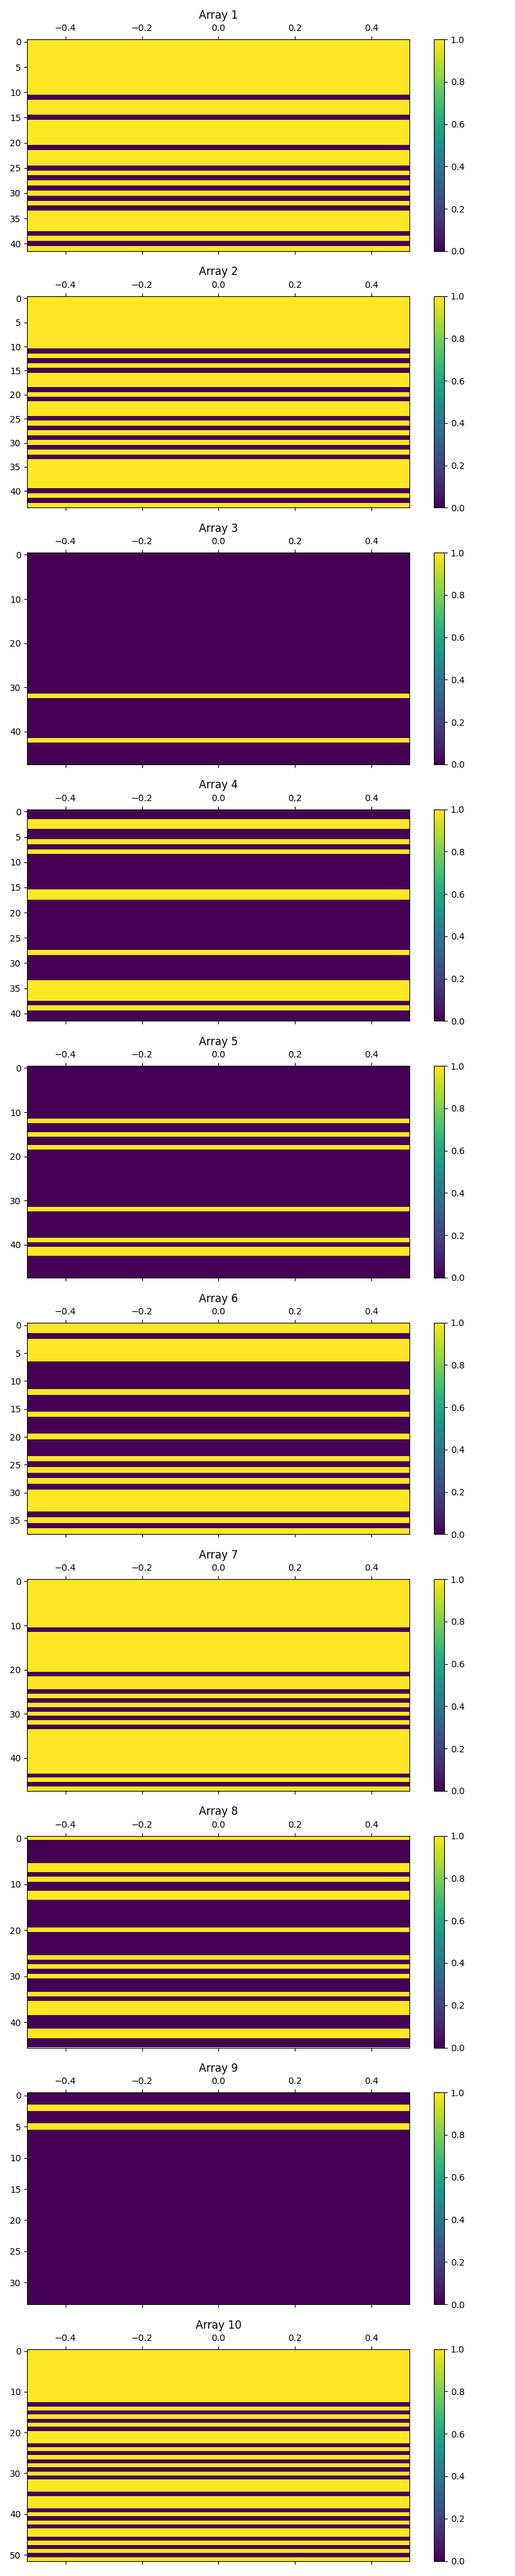
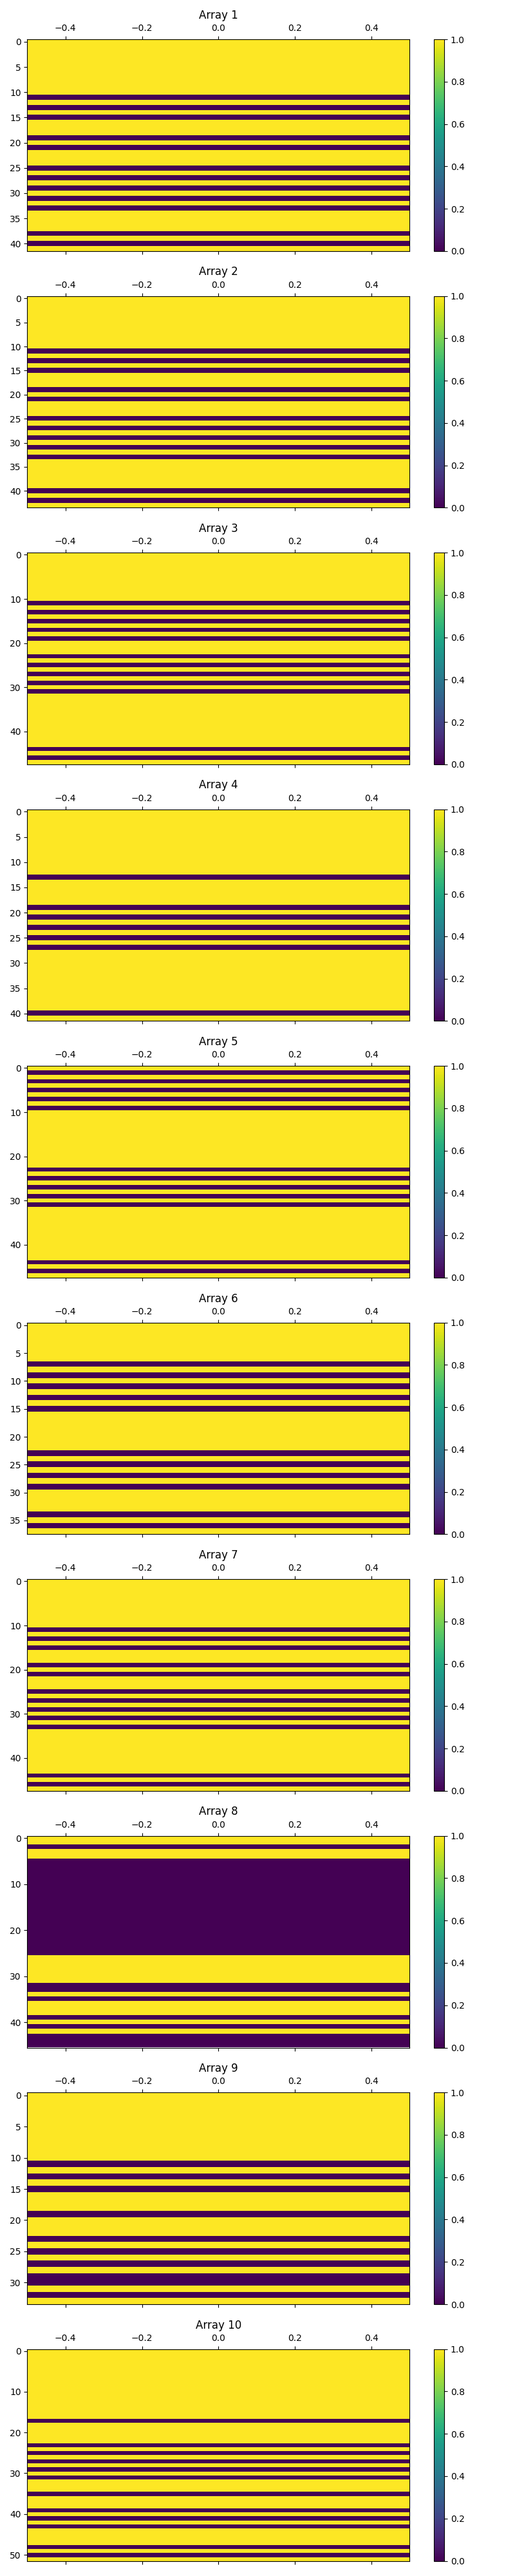
fix spread

diff --git a/graph_classification.py b/graph_classification.py
@@ -132,79 +132,79 @@ def save_graphml(dataset, explanation, type, is_gt=False):
 
 def graph_classification():
     ########### GRAPH ############################
-    print("Running graph setup")
-    graph_metrics = {}
-    for seed in tqdm(range(args.start_seed, args.end_seed), desc="Graph Setup Seed: "):
-        args.current_seed = seed
+    # print("Running graph setup")
+    # graph_metrics = {}
+    # for seed in tqdm(range(args.start_seed, args.end_seed), desc="Graph Setup Seed: "):
+    #     args.current_seed = seed
 
-        dataset, train_loader, test_loader = load_graph_data(seed=seed)
+    #     dataset, train_loader, test_loader = load_graph_data(seed=seed)
 
-        graph_model = setup_model(
-            train_loader=train_loader, test_loader=test_loader, type="graphs"
-        )
-        graph_pred_explanations, ground_truth_explanations, metrics = explain(
-            model=graph_model,
-            dataset=dataset,
-        )
+    #     graph_model = setup_model(
+    #         train_loader=train_loader, test_loader=test_loader, type="graphs"
+    #     )
+    #     graph_pred_explanations, ground_truth_explanations, metrics = explain(
+    #         model=graph_model,
+    #         dataset=dataset,
+    #     )
 
-        if args.visualise:
-            visualise_explanation(
-                graph_pred_explanations[1], ground_truth_explanations[1]
-            )
+    #     if args.visualise:
+    #         visualise_explanation(
+    #             graph_pred_explanations[1], ground_truth_explanations[1]
+    #         )
 
-        graph_metrics[seed] = metrics
+    #     graph_metrics[seed] = metrics
 
-        if args.save_explanation_graphml:
-            save_graphml(dataset, graph_pred_explanations, "graph")
+    #     if args.save_explanation_graphml:
+    #         save_graphml(dataset, graph_pred_explanations, "graph")
 
-        if args.test_graph_train_complex_dataset:
-            print(
-                "Testing explainer with model trained on graph, and providing complex dataset."
-            )
-            complex_dataset, _, _ = load_complex_data(seed=seed)
-            explain(
-                model=graph_model,
-                dataset=dataset,
-            )
+    #     if args.test_graph_train_complex_dataset:
+    #         print(
+    #             "Testing explainer with model trained on graph, and providing complex dataset."
+    #         )
+    #         complex_dataset, _, _ = load_complex_data(seed=seed)
+    #         explain(
+    #             model=graph_model,
+    #             dataset=dataset,
+    #         )
 
-        if args.visualise:
-            visualise_explanation(
-                graph_pred_explanations[1], ground_truth_explanations[1]
-            )
+    #     if args.visualise:
+    #         visualise_explanation(
+    #             graph_pred_explanations[1], ground_truth_explanations[1]
+    #         )
 
-        if args.save_explanation_graphml:
-            save_graphml(dataset, graph_pred_explanations, "graph")
+    #     if args.save_explanation_graphml:
+    #         save_graphml(dataset, graph_pred_explanations, "graph")
 
-    # get best seed based on jaccard score
-    best_seed = max(graph_metrics, key=graph_metrics.get("jaccard"))
-    best_metrics = graph_metrics[best_seed]
-    print(f"Best seed for graph explanations: {best_seed}")
-    print(f"Best metrics for graph explanations: ")
-    pprint(best_metrics)
+    # # get best seed based on jaccard score
+    # best_seed = max(graph_metrics, key=graph_metrics.get("jaccard"))
+    # best_metrics = graph_metrics[best_seed]
+    # print(f"Best seed for graph explanations: {best_seed}")
+    # print(f"Best metrics for graph explanations: ")
+    # pprint(best_metrics)
 
-    if args.save_explanation_dir:
-        # sort metrics by jaccard score
-        graph_metrics = dict(
-            sorted(graph_metrics.items(), key=lambda x: x[1]["jaccard"], reverse=True)
-        )
+    # if args.save_explanation_dir:
+    #     # sort metrics by jaccard score
+    #     graph_metrics = dict(
+    #         sorted(graph_metrics.items(), key=lambda x: x[1]["jaccard"], reverse=True)
+    #     )
 
-        # average metrics
-        avg_metrics = {}
-        for key in graph_metrics[seed].keys():
-            avg_metrics[key] = sum([x[key] for x in graph_metrics.values()]) / len(
-                graph_metrics
-            )
+    #     # average metrics
+    #     avg_metrics = {}
+    #     for key in graph_metrics[seed].keys():
+    #         avg_metrics[key] = sum([x[key] for x in graph_metrics.values()]) / len(
+    #             graph_metrics
+    #         )
 
-        graph_metrics["average"] = avg_metrics
+    #     graph_metrics["average"] = avg_metrics
 
-        # std dev metrics
-        std_metrics = {}
-        for key in graph_metrics[seed].keys():
-            std_metrics[key] = np.std([x[key] for x in graph_metrics.values()])
+    #     # std dev metrics
+    #     std_metrics = {}
+    #     for key in graph_metrics[seed].keys():
+    #         std_metrics[key] = np.std([x[key] for x in graph_metrics.values()])
 
-        graph_metrics["std_dev"] = std_metrics
+    #     graph_metrics["std_dev"] = std_metrics
 
-        save_metrics(graph_metrics, args.exp_name, "graph")
+    #     save_metrics(graph_metrics, args.exp_name, "graph")
 
     ######### CELL COMPLEX ##########################
     complex_metrics = {}

diff --git a/explain_utils.py b/explain_utils.py
@@ -332,8 +332,9 @@ def spread_edge_wise(graph, explanation, mapping):
 
             # print('ERRROR', i)
             # print(edge_type[i], edge_type[i + 1])
-            idx = mapping[3][counter]
-            print(idx)
+            idx = mapping[3][counter][1]
+            # print(mapping)
+            # print("IDX", idx)
             new_edge_mask[idx] += edge_mask[i]
         elif edge_type[i] == 4:
             if last_seen != 4:
@@ -341,7 +342,7 @@ def spread_edge_wise(graph, explanation, mapping):
             else:
                 counter += 1
 
-            idx = mapping[4][counter]
+            idx = mapping[4][counter][1]
             new_edge_mask[idx] += edge_mask[i]
 
         last_seen = edge_type[i]
@@ -388,7 +389,7 @@ def spread_cycle_wise(graph, explanation, mapping, alpha=1.0):
 
             # print('ERRROR', i)
             # print(edge_type[i], edge_type[i + 1])
-            idx_list = mapping[3][counter]
+            idx_list = mapping[3][counter][0]
             for idx in idx_list:
                 new_edge_mask[idx] += (edge_mask[i] - 0.5) * alpha  # alpha is a scaling factor
         elif edge_type[i] == 4:
@@ -397,7 +398,7 @@ def spread_cycle_wise(graph, explanation, mapping, alpha=1.0):
             else:
                 counter += 1
 
-            idx_list = mapping[4][counter]
+            idx_list = mapping[4][counter][0]
             for idx in idx_list:
                 new_edge_mask[idx] += (edge_mask[i] - 0.5)* alpha
 
@@ -478,6 +479,7 @@ def explain_cell_complex_dataset(
     """
     Explains the dataset using the explainer. We only explain a fraction of the dataset, as the explainer can be slow.
     """
+    print("EXPLAINING")
     pred_explanations = []
     ground_truth_explanations = []
     count = 0
@@ -513,10 +515,13 @@ def explain_cell_complex_dataset(
         pred = get_graph_level_explanation(explainer, data)
 
         edge_mask = None
+        # print("SPREAD")
         if args.spread_strategy == "cycle_wise":
+            # print("CYCLE")
             edge_mask = norm(spread_cycle_wise(data, pred, mapping, alpha=3.0))
             # edge_mask = (spread_cycle_wise(data, pred, mapping, alpha=1.0)).tanh()
         elif args.spread_strategy == "edge_wise":
+            # print("EDGE")
             edge_mask = (spread_edge_wise(data, pred, mapping)).tanh()
         else:
             raise NotImplementedError(

diff --git a/data.py b/data.py
@@ -66,7 +66,9 @@ def graph_to_complex(g):
 
     # convert to networkx graph to find cycles
     nx_graph = nx.Graph()
+    # print("EDGE", g.edge_index.t())
     edge_list = g.edge_index.t().tolist()
+    # print(edge_list)
     nx_graph.add_edges_from(edge_list)
     cycles = nx.cycle_basis(nx_graph)
     cycles = [c for c in cycles if len(c) <= 8]
@@ -94,6 +96,8 @@ def graph_to_complex(g):
         edges_in_cycle = []
         c_t_e_edges = []
         e_t_c_edges = []
+        og_cte_to_edge = {}
+        og_etc_to_edge = {}
 
         # connect cycle_node to all nodes in the cycle
         for node in cycle:
@@ -111,6 +115,10 @@ def graph_to_complex(g):
             edges_in_cycle.append(edge_index)
             c_t_e_edges.append(c_t_e_counter)
             e_t_c_edges.append(e_t_c_counter)
+            # og_cte_to_edge.append(edge_index)
+            # og_etc_to_edge.append(edge_index)
+            og_cte_to_edge[c_t_e_counter] = edge_index
+            og_etc_to_edge[e_t_c_counter] = edge_index
 
             # mapping[3][c_t_e_counter] = edge_index
             # mapping[4][e_t_c_counter] = edge_index
@@ -119,10 +127,10 @@ def graph_to_complex(g):
             e_t_c_counter += 1
         
         for edge in c_t_e_edges:
-            mapping[3][edge] = edges_in_cycle
+            mapping[3][edge] = (edges_in_cycle, og_cte_to_edge[edge])
         
         for edge in e_t_c_edges:
-            mapping[4][edge] = edges_in_cycle
+            mapping[4][edge] = (edges_in_cycle, og_etc_to_edge[edge])
 
     hg["cycle_node"].x = torch.tensor(np.array(cycle_nodes), dtype=torch.float32)
     # hg['cycle_node', 'to', 'node'].edge_index = torch.tensor(np.array(cycle_node_to_node), dtype=torch.long).t()
